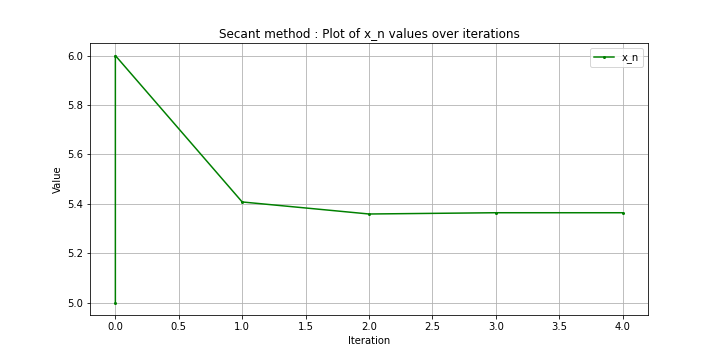
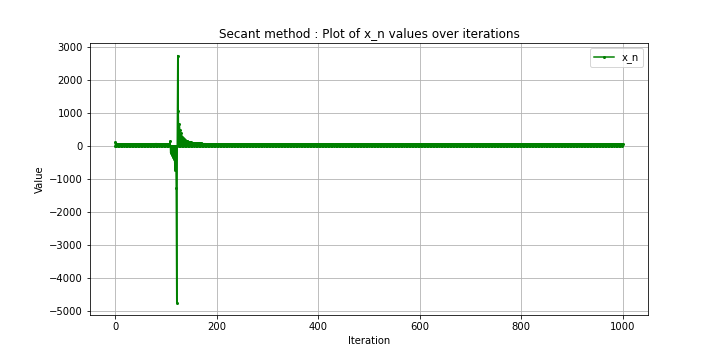
NOV06-01

diff --git a/Team_Projects/Numerical_analysis/Numerical_root_finding/hybrid_bisection+secant_example.py b/Team_Projects/Numerical_analysis/Numerical_root_finding/hybrid_bisection+secant_example.py
@@ -1,6 +1,15 @@
 # -*- coding: utf-8 -*-
+"""
+Created on Mon Nov  6 08:51:17 2023
 
-import math
+@author: joonc
+"""
+#hybrid method practice with the textbook example
+
+#hybrid method
+#bisection + secant
+
+import numpy as np
 
 #hybrid method = bisection + secant
 #hybrid function input define
@@ -30,53 +39,53 @@ def hybrid(f, g, a, b, diff_a_b, max_iter):
 
         #Denote iteration
         iteration += 1
-        #print("~~iteration :", iteration)
+        print("~~iteration :", iteration)
 
         #Check for location of new x value
         #First condition checks if new value lies outside of the interval
         if x_prime < a or x_prime>b:
             #Performs bisection to obtain new x value
-            #print("bicetion mothod")
+            print("bicetion mothod")
             x_prime = (b-a)/2.0
 
             #Checks image of new x value
             if f(a) * f(x_prime) < 0:
                 b = x_prime
-            #    print("a:", a, "b:", x_prime)
+                print("a:", a, "b:", x_prime)
             else:
                 a = x_prime
-            #    print("a:", x_prime, "b:", b)
+                print("a:", x_prime, "b:", b)
 
         else:
             #Checks image of new x value if secant lies within the interval
-            #print("secant mothod")
+            print("secant mothod")
             if f(a)*f(x_prime)<0:
                 b = x_prime
-            #    print("a:", a, "b:", x_prime)
+                print("a:", a, "b:", x_prime)
             else:
                 a=x_prime
-            #    print("a:", x_prime, "b:", b)
+                print("a:", x_prime, "b:", b)
 
-        #print("\n")
+        print("\n")
     height = g(x_prime)
     return x_prime, iteration, height
 
-# Define the function that want to find the root of
-def f(x):
-    return (-2000/(x**2))-(500/((math.pi)*(x**3)))+(4*math.pi*x)+math.pi
-def g(c):
-    return 1000/(math.pi*c**2)
+#define the function we want to know
+# def f(x):
+#     return 4*np.pi*(x+0.25)+(-2000/(x**2))+(-2*0.25*1000)/(np.pi*x**3)
+# def g(c):
+#     return 1000/(np.pi*c**2)
 
-a = 5 
-b = 6
+def f(x):
+    return (20*x -1) / (19*x)
+def g(x):
+    return x
+a = 1
+b = 1000
 diff_a_b = 1e-4
 # max_iterations = 100
 #Print final number of iterations required to land within the error
-result = hybrid(f, g, a, b, diff_a_b, 100)
+result = hybrid(f, g, a, b, diff_a_b, 1000)
 print(result)
 
-if result[1]<100:
-    print(f"We require {result[1]} iterations for the error to lie within 10e-4.")
-else:
-    print("We require over 100 iterations for the error to lie within 10e-4.")
 print(f"The most optimal radius of the can will be {round(result[0],2)} cm and the most optimal height will be  {round(result[2],2)} cm.")

diff --git a/Team_Projects/Numerical_analysis/Numerical_root_finding/visualiztion_scant_method.py b/Team_Projects/Numerical_analysis/Numerical_root_finding/visualiztion_scant_method.py
@@ -69,14 +69,14 @@ def f(x):
    return 4*np.pi*(x+0.25)+(-2000/(x**2))+(-2*0.25*1000)/(np.pi*x**3)
 
 # Initial point; x_0 and x_1
-x_0 = 5
-x_1 = 6
+x_0 = 1
+x_1 = 100
 # The maximum difference between x_n and x_n_1
-diff_a_b = 1e-4
+diff_a_b = 1e-6
 #max_iterations = 10
 
 #Output save in the 'result' variable
-result = secant(f, x_0, x_1, diff_a_b, 100)
+result = secant(f, x_0, x_1, diff_a_b, 1000)
 
 
 # drowing plots in order to check convergence and speed of convergence

diff --git a/Team_Projects/Numerical_analysis/Numerical_root_finding/hybrid_bisection+secant.py b/Team_Projects/Numerical_analysis/Numerical_root_finding/hybrid_bisection+secant.py
@@ -75,10 +75,12 @@ def f(x):
 def g(c):
     return 1000/(np.pi*c**2)
 
-a = 5 
-b = 6
+a = 1
+b = 1000
 diff_a_b = 1e-4
 # max_iterations = 100
 #Print final number of iterations required to land within the error
-result = hybrid(f, g, a, b, diff_a_b, 100)
+result = hybrid(f, g, a, b, diff_a_b, 1000)
 print(result)
+
+print(f"The most optimal radius of the can will be {round(result[0],2)} cm and the most optimal height will be  {round(result[2],2)} cm.")

diff --git a/Team_Projects/Numerical_analysis/Numerical_root_finding/basic_bisection_method.py b/Team_Projects/Numerical_analysis/Numerical_root_finding/basic_bisection_method.py
@@ -46,12 +46,12 @@ def f(x):
     return 4*np.pi*(x+0.25)+(-2000/(x**2))+(-2*0.25*1000)/(np.pi*x**3)
 
 # Initial interval [a, b] and diff_a_b(tolerance)(== accuray)
-a = 5
-b = 6
+a = 1
+b = 100
 diff_a_b = 1e-4
 #max_iterations = 10
 
-result = bisection(f, a, b, diff_a_b, 100)
+result = bisection(f, a, b, diff_a_b, 1000)
 print(result)
 
 

diff --git a/Team_Projects/Numerical_analysis/Numerical_root_finding/basic_secant_method.py b/Team_Projects/Numerical_analysis/Numerical_root_finding/basic_secant_method.py
@@ -53,12 +53,12 @@ def f(x):
 
 
 # Initial x_0 and x_1
-x_0 = 5
-x_1 = 6
+x_0 = 1
+x_1 = 100
 diff_a_b = 1e-4
 #max_iterations = 10
 
-result = secant(f, x_0, x_1, diff_a_b, 100)
+result = secant(f, x_0, x_1, diff_a_b, 1000)
 print(result)
 
 
